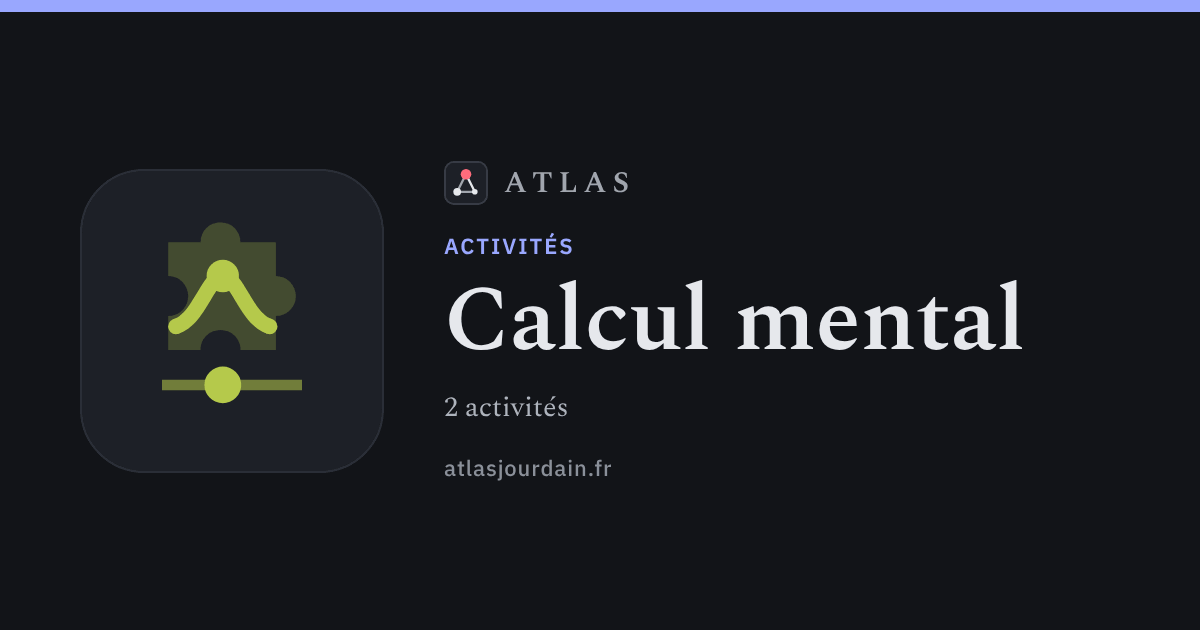
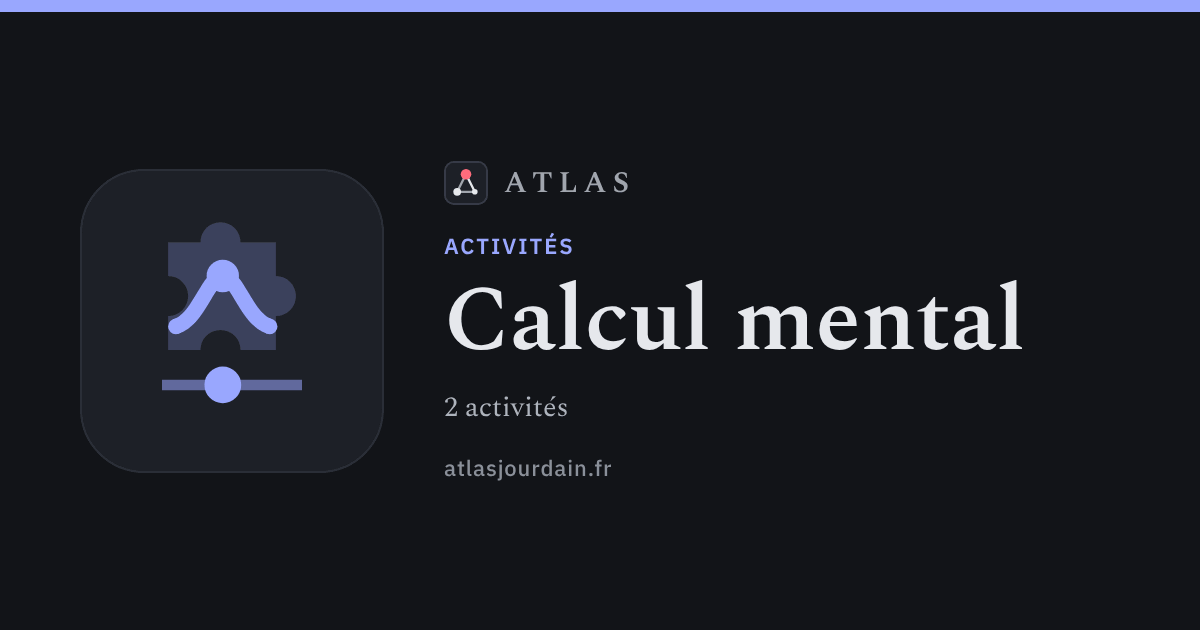
Images d'aperçu des groupes d'activités : le symbole prend la teinte du groupe
Claude-Session: https://claude.ai/code/session_01Fc4dPHXr9WgmuhMB3kf6jw

Changed region(s): [[0.1233, 0.3619, 0.2467, 0.6333]]

diff --git a/MEMO_atlas_apropos.md b/MEMO_atlas_apropos.md
@@ -1010,7 +1010,9 @@ transmis au serveur ; la messagerie reçoit l'accueil). Ces vues ont désormais 
   `/index/`, `/lexique/` ; titre et description propres, image de la rubrique ou image générale.
 - `adressePartage()` donne ces adresses (`?ouvrir` pour les niveaux : le destinataire va droit dans l'atlas).
 - Ligne d'auteur sous le titre des pages de lecture : écartée par l'auteur (il ne veut pas son nom partout).
-Restent sur l'aperçu de l'accueil : les groupes d'activités (à faire par le domaine Activités, voir son mémo), un
-terme du lexique, les exercices d'une notion, les filtres et recherches (écartés pour l'instant).
+Restent sur l'aperçu de l'accueil : un terme du lexique, les exercices d'une notion, les filtres et recherches (écartés pour l'instant).
 
 **Ajout de la conversation Activités (17 nov. 2026).** Les groupes d'activités ont leur page `/activites/<groupe>/` et leur aperçu `activites/groupe-<groupe>` (MEMO_atlas_activites.md §165). Dans `adressePartage()`, le bloc `activites` rend désormais `activites/<ch>/` quand `ch` est une activité ou le groupe d'au moins une activité (`a.id === ch || a.groupe === ch`) ; aucun identifiant de groupe n'est celui d'une activité, et la construction le vérifie.
+
+Sur l'image d'un groupe, le symbole des Activités prend la teinte du groupe (`--sa` dans la fabrique), comme le filet
+et le sur-titre ; fait sans changer `VERSION_APERCU` : seules les quatre images de groupe ont été refaites.
